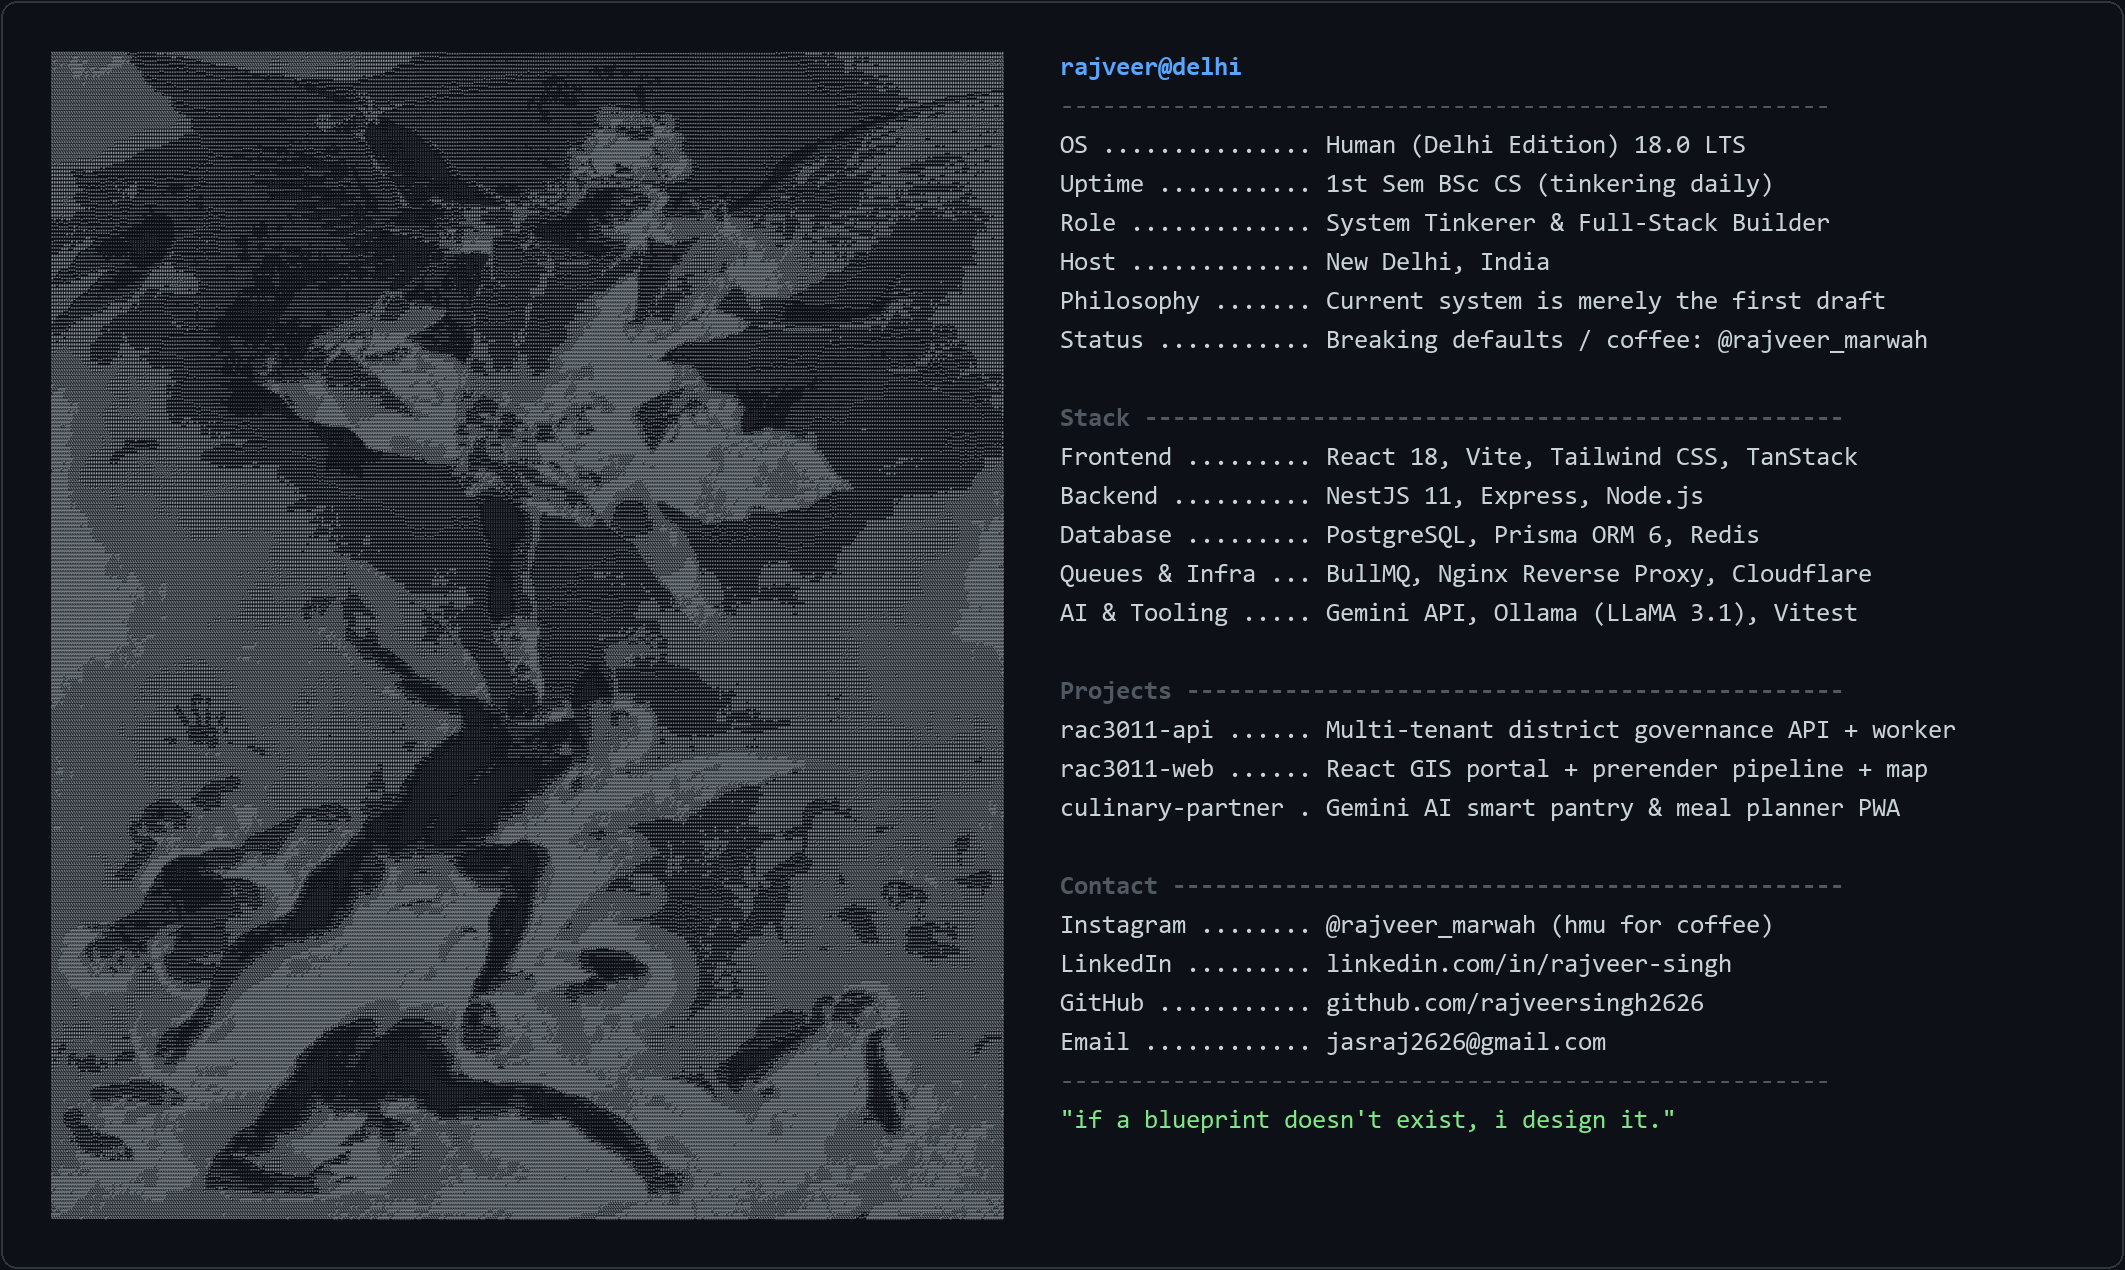
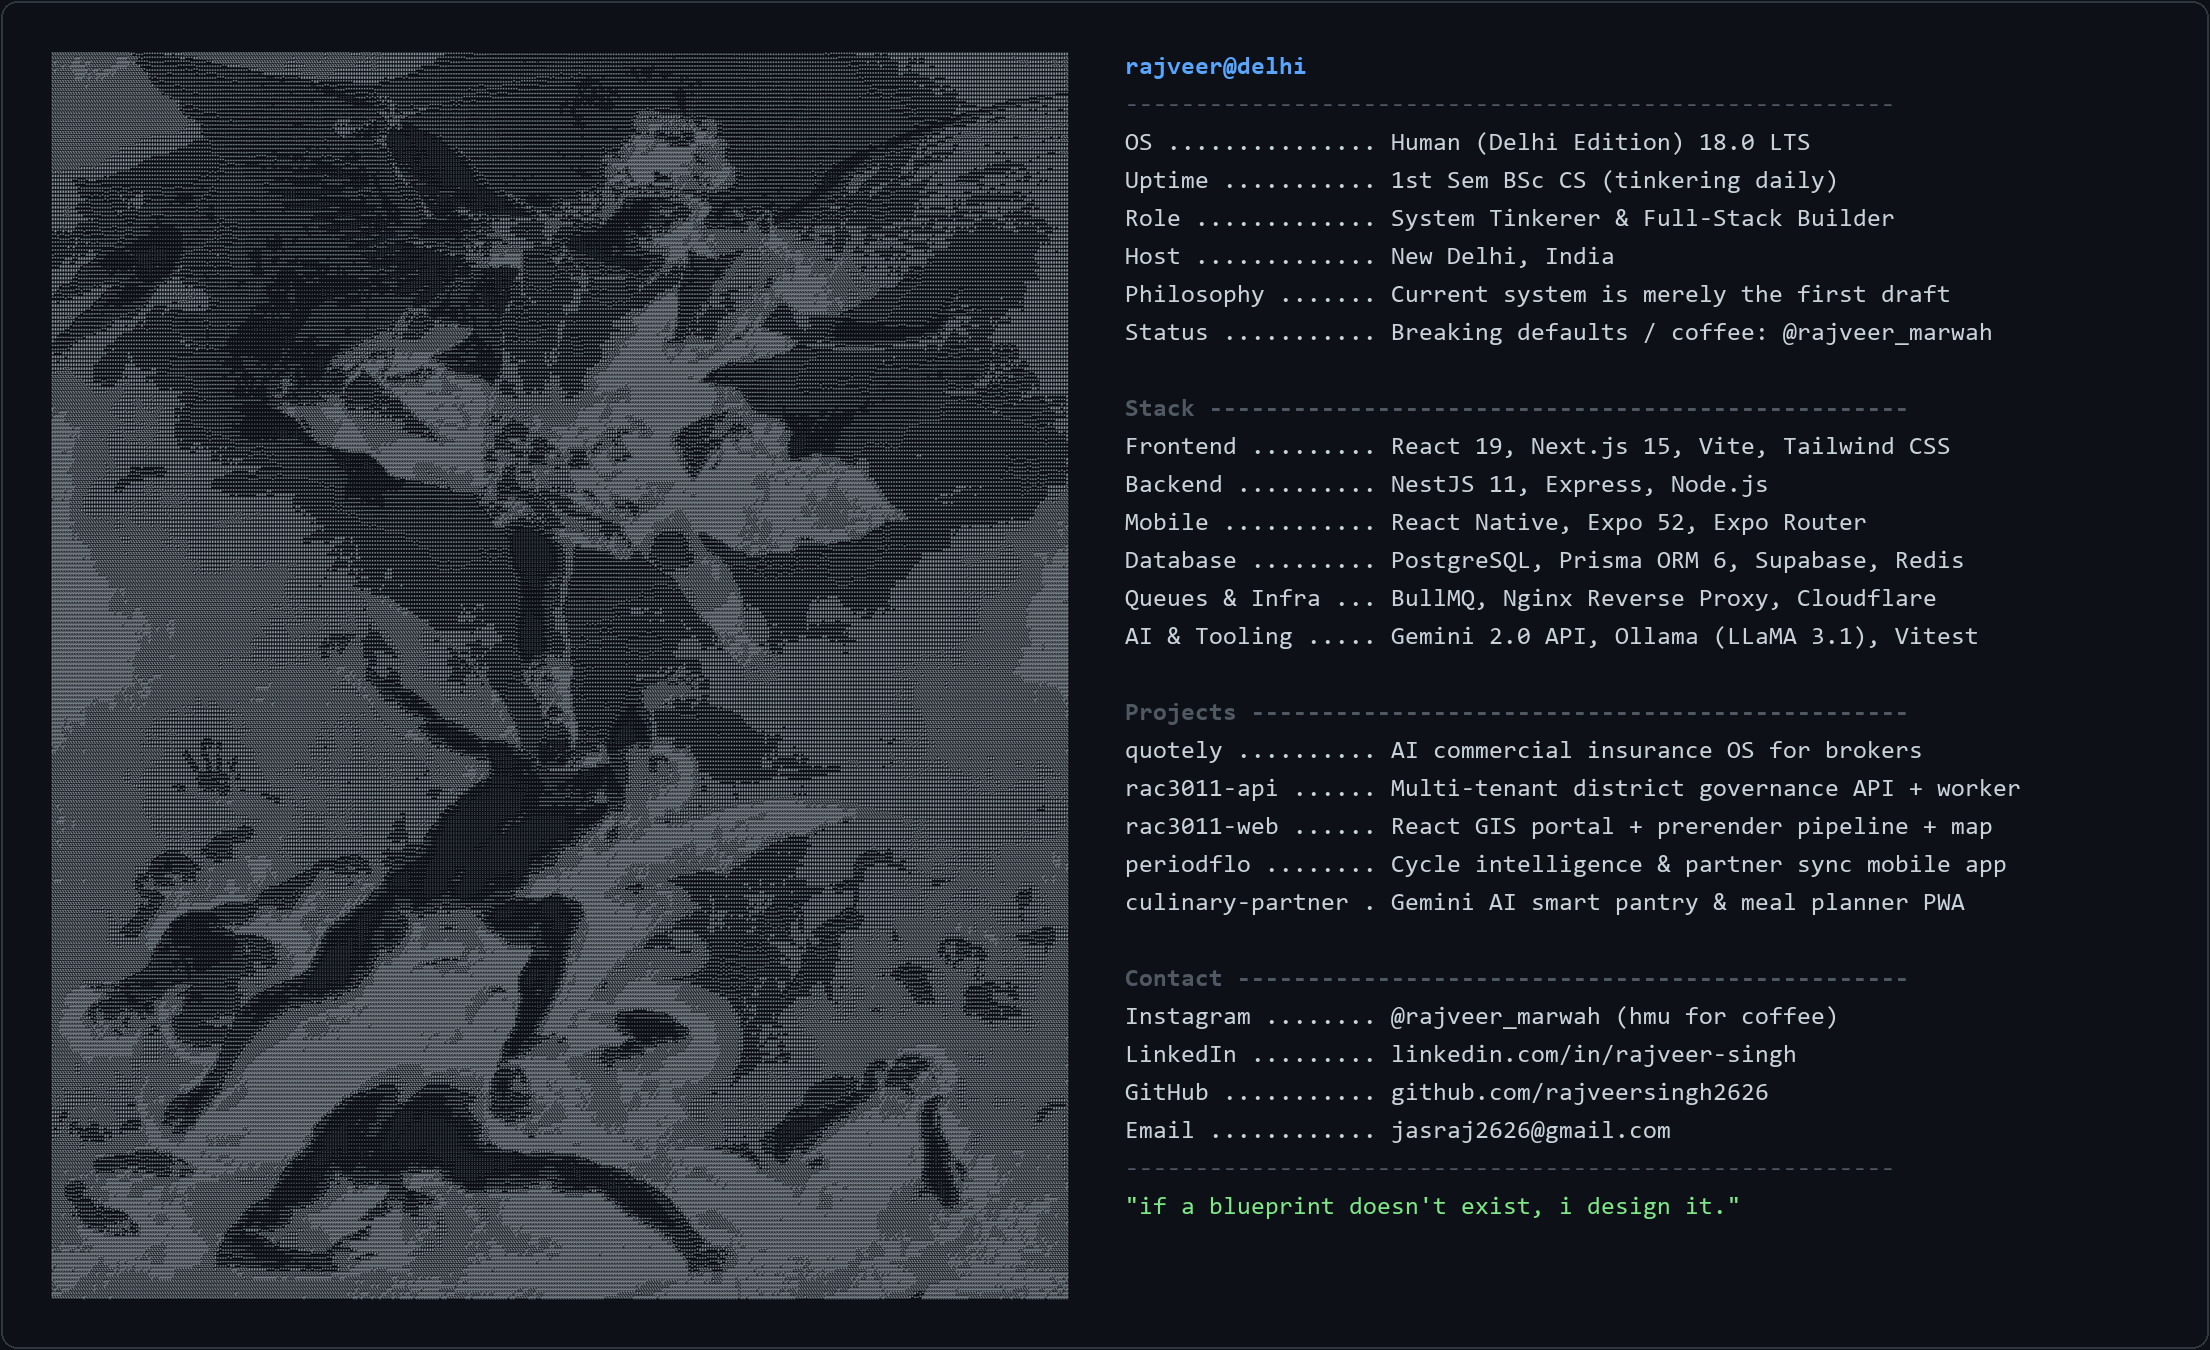
feat: expand featured projects to include Quotely, PeriodFLO, Rotaract 3011, and Culinary Partner

Changed region(s): [[0.0, 0.0307, 0.9318, 0.9827], [0.6212, 0.3071, 0.9007, 0.4913], [0.6212, 0.0921, 0.9007, 0.2764]]

diff --git a/README.md b/README.md
@@ -14,6 +14,12 @@
 
 ### Featured Projects
 
+**Quotely** ([`Qoutely`](https://github.com/rajveersingh2626/Qoutely))
+
+AI-powered commercial insurance operating system for Indian brokerage firms. Ingests proposals, RFQs, and tender slips, maps occupancies to IIB Schedule 3 taxonomy, and executes deterministic underwriting tariff calculations in compliance with All India Fire Tariff (AIFT) regulations.
+
+- Tech: Next.js 15, React 19, Google Gemini 2.0 API, Supabase, PostgreSQL (Row Level Security multi-tenancy), GSAP, Framer Motion, jsPDF, Zod.
+
 **Rotaract District 3011 Platform**
 
 Production governance web platform and administrative portal serving 40+ member clubs across Delhi-NCR.
@@ -21,9 +27,17 @@ Production governance web platform and administrative portal serving 40+ member 
 - Backend [`rac3011-api`](https://github.com/rajveersingh2626/rac3011-api): NestJS 11, Prisma ORM 6, PostgreSQL, BullMQ, Redis, Better Auth with multi-tenant RBAC, PDF-lib document engine, Sentry, Pino.
 - Frontend [`rac3011-web`](https://github.com/rajveersingh2626/rac3011-web): React 18, Vite, Tailwind CSS, TanStack Query, Leaflet GIS district mapping, static prerendering, Playwright E2E testing.
 
+**PeriodFLO** ([`periodflo`](https://github.com/rajveersingh2626/periodflo))
+
+Cross-platform cycle intelligence and partner-synchronization mobile application. Features symptom forecasting, health metric insights, partner notifications, and encrypted local state management.
+
+- Tech: React Native, Expo 52, Expo Router, TypeScript, Vitest.
+
 **Culinary Partner** ([`food-choose`](https://github.com/rajveersingh2626/food-choose))
 
-AI-powered smart pantry and meal planner progressive web application. Google Gemini API for recipe recommendations, Supabase for real-time persistence, Framer Motion for fluid interactions.
+AI-driven pantry assistant and smart meal planner progressive web application with real-time pantry inventory tracking and ingredient-based recipe discovery.
+
+- Tech: React 18, Vite, Google Gemini API, Supabase, Framer Motion, Tailwind CSS.
 
 ---
 
